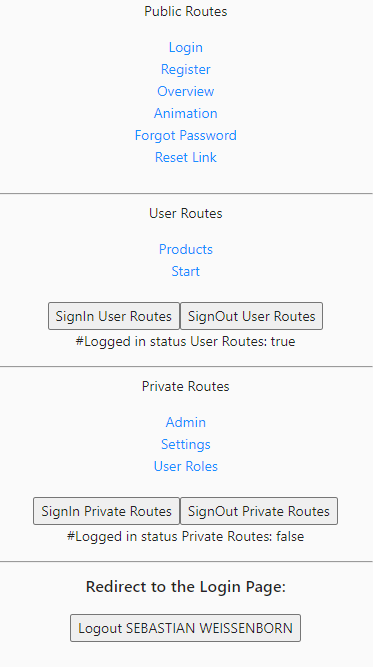
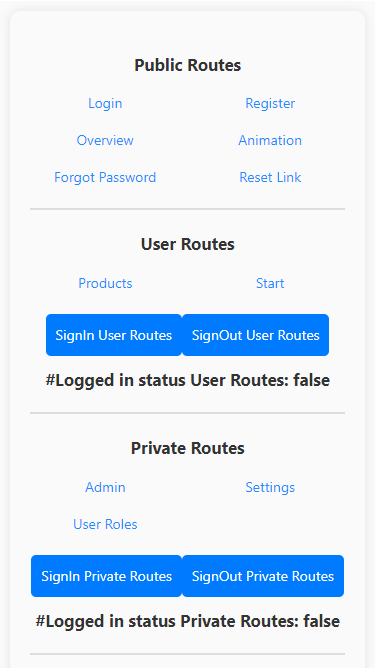
upload

diff --git a/client/src/AppRouter.js b/client/src/AppRouter.js
@@ -8,7 +8,7 @@ import Settings from './pages/Settings';
 import Start from './pages/Start';
 import Products from './pages/Products';
 import Login from './pages/Login';
-import Overview from './pages/Overview';
+import Overview from './pages/Overview/Overview';
 import Register from './pages/Register';
 import PrivateRoutes from './utils/PrivateRoutes';
 import PublicRoutes from './utils/PublicRoutes';
@@ -50,7 +50,7 @@ function AppRouter() {
     };
 
     return (
-        <div className="AppRouter">
+        <div style={{display:"flex", justifyContent:"center"}} className="AppRouter">
             <Router>
                 <Routes>
                     <Route element={<PublicRoutes user={publicUser} />}>

diff --git a/client/src/pages/Overview/Overview.css b/client/src/pages/Overview/Overview.css
@@ -6,8 +6,10 @@
     border-radius: 10px;
     box-shadow: 0 0 10px rgba(0, 0, 0, 0.1);
     max-width: 800px;
-    margin: 0 auto;
-    margin-top: 20px;
+    /* margin: 0 auto; */
+    margin: 10px 10px 10px 10px;
+    /* margin-top: 20px; */
+    width: 800px;
   }
   
   .section {
